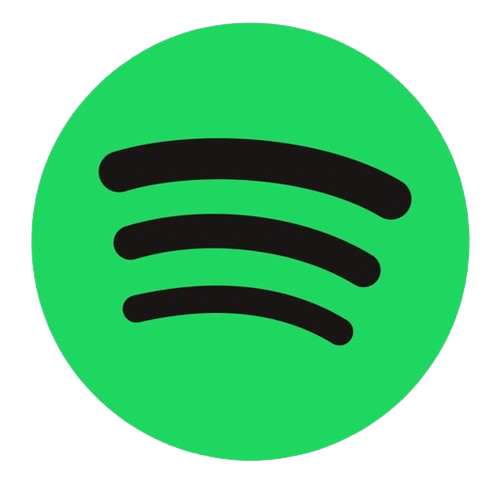
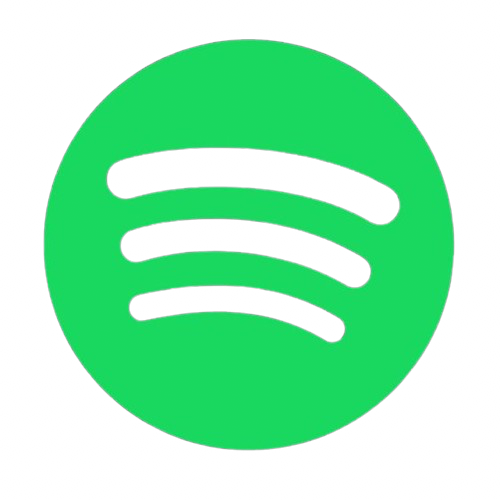
feat(Mobile): Connect discord provider in the app (#198)
* feat(api_endpoints): add routes auth/callback and autorization

* feat(api_auth_Discord): create Class ApiDiscord with create method for authenticateWithDiscord

* feat(show_oauth2_services_page): add connect discord and refactor widget OAuth2 Connect with display scrollview and reloadProfileData after

* refactor(images): add images for discord and spotify

---------

Changed region(s): [[0.06, 0.03, 0.96, 0.93], [0.18, 0.27, 0.84, 0.6], [0.24, 0.57, 0.72, 0.69]]

diff --git a/area_front_app/lib/pages/home/show_oauth2_services_page.dart b/area_front_app/lib/pages/home/show_oauth2_services_page.dart
@@ -8,6 +8,7 @@ import 'package:area_front_app/pages/copyarea/copy_area_page.dart';
 import 'package:area_front_app/api/routes/auth/oauth2/api_auth_google.dart';
 import 'package:area_front_app/api/routes/auth/oauth2/api_auth_spotify.dart';
 import 'package:area_front_app/api/routes/auth/oauth2/api_auth_msteams.dart';
+import 'package:area_front_app/api/routes/auth/oauth2/api_auth_discord.dart';
 
 class OAuth2ServicesPage extends StatefulWidget {
   const OAuth2ServicesPage({super.key});
@@ -41,6 +42,7 @@ class _OAuth2ServicesPageState extends State<OAuth2ServicesPage> {
 
   List myOAuth2Services = [
     ["Github", "lib/images/github.png"],
+    ["Discord", "lib/images/discord.png"],
     ["Google", "lib/images/google.png"],
     ["Spotify", "lib/images/spotify.png"],
     ["MSTeams", "lib/images/msteams.png"],
@@ -59,26 +61,39 @@ class _OAuth2ServicesPageState extends State<OAuth2ServicesPage> {
     }
   }
 
+  Future<void> _reloadProfileData() async {
+    userProfile.serviceStatus = await ApiUserServices.isServiceConnected();
+    if (mounted) {
+      setState(() {});
+    }
+  }
+
   void powerSwitchChanged(bool value, int index) {
     setState(() {
       userProfile.serviceStatus[myOAuth2Services[index][0]] = value;
     });
+    _reloadProfileData();
   }
 
-  Expanded buildOAuth2ServicesGrid() {
-    return Expanded(
-      child: GridView.builder(
-        itemCount: myOAuth2Services.length,
-        physics: const NeverScrollableScrollPhysics(),
-        padding: const EdgeInsets.symmetric(horizontal: 25),
-        gridDelegate: const SliverGridDelegateWithFixedCrossAxisCount(
-          crossAxisCount: 2,
-          childAspectRatio: 1 / 1.1,
-        ),
-        itemBuilder: (context, index) {
-          return buildOAuth2ServiceBox(index);
-        },
-      ),
+  ListView buildOAuth2ServicesList() {
+    return ListView.builder(
+      itemCount: (myOAuth2Services.length / 2).ceil(),
+      padding: const EdgeInsets.symmetric(horizontal: 25),
+      itemBuilder: (context, index) {
+        int startIndex = index * 2;
+        int endIndex = startIndex + 2;
+        if (endIndex > myOAuth2Services.length) {
+          endIndex = myOAuth2Services.length;
+        }
+        return Row(
+          mainAxisAlignment: MainAxisAlignment.spaceAround,
+          children: List.generate(endIndex - startIndex, (i) {
+            return Expanded(
+              child: buildOAuth2ServiceBox(startIndex + i),
+            );
+          }),
+        );
+      },
     );
   }
 
@@ -100,24 +115,30 @@ class _OAuth2ServicesPageState extends State<OAuth2ServicesPage> {
               ),
               actions: [
                 TextButton(
-                  onPressed: () {
+                  onPressed: () async {
                     Navigator.of(context).pop();
-                    if (myOAuth2Services[index][0] == "Github") {
-                      ApiGitHub().authenticateWithGitHub();
-                      powerSwitchChanged(true, index);
+                    final serviceName = myOAuth2Services[index][0];
+
+                    switch (serviceName) {
+                      case "Github":
+                        await ApiGitHub().authenticateWithGitHub();
+                        break;
+                      case "Google":
+                        await ApiGoogle().authenticateWithGoogle();
+                        break;
+                      case "Spotify":
+                        await ApiSpotify().authenticateWithSpotify();
+                        break;
+                      case "MSTeams":
+                        await ApiMSTeams().authenticateWithMSTeams();
+                        break;
+                      case "Discord":
+                        await ApiDiscord().authenticateWithDiscord();
+                        break;
+                      default:
+                        break;
                     }
-                    if (myOAuth2Services[index][0] == "Google") {
-                      ApiGoogle().authenticateWithGoogle();
-                      powerSwitchChanged(true, index);
-                    }
-                    if (myOAuth2Services[index][0] == "Spotify") {
-                      ApiSpotify().authenticateWithSpotify();
-                      powerSwitchChanged(true, index);
-                    }
-                    if (myOAuth2Services[index][0] == "MSTeams") {
-                      ApiMSTeams().authenticateWithMSTeams();
-                      powerSwitchChanged(true, index);
-                    }
+                    powerSwitchChanged(true, index);
                   },
                   child: const Text('Connect'),
                 ),
@@ -265,7 +286,8 @@ class _OAuth2ServicesPageState extends State<OAuth2ServicesPage> {
                 color: Color.fromRGBO(66, 66, 66, 1),
               ),
             ),
-            if (isShowOAuth2Services) buildOAuth2ServicesGrid(),
+            if (isShowOAuth2Services)
+              Expanded(child: buildOAuth2ServicesList()),
             Padding(
               padding: EdgeInsets.symmetric(horizontal: horizontalPadding),
               child: Row(

diff --git a/area_front_app/lib/api/routes/auth/oauth2/api_auth_discord.dart b/area_front_app/lib/api/routes/auth/oauth2/api_auth_discord.dart
@@ -1,0 +1,25 @@
+import 'package:url_launcher/url_launcher.dart';
+import 'package:area_front_app/api/api_endpoints.dart';
+import 'package:flutter_dotenv/flutter_dotenv.dart';
+
+class ApiDiscord {
+  static String clientID = dotenv.env['DISCORD_CLIENT_ID'] ?? '';
+  static String clientSecret = dotenv.env['DISCORD_CLIENT_SECRET'] ?? '';
+  static String clientSCOPE = dotenv.env['DISCORD_CLIENT_SCOPE'] ?? '';
+
+  Future<void> authenticateWithDiscord() async {
+    if (clientID.isEmpty || clientSecret.isEmpty) {
+      throw 'Missing Discord client ID or client secret';
+    }
+
+    final authCallbackURL =
+        Uri.encodeFull(ApiRoutes.baseUrl + ApiRoutes.authDiscord);
+
+    final String link = '${ApiRoutes.authorizeDiscord}client_id=$clientID&redirect_uri=$authCallbackURL&response_type=code&scope=$clientSCOPE';
+    Uri uri = Uri.parse(link);
+    
+    if (!await launchUrl(uri)) {
+      throw 'Could not launch $link';
+    }
+  }
+}

diff --git a/area_front_app/lib/api/api_endpoints.dart b/area_front_app/lib/api/api_endpoints.dart
@@ -25,4 +25,6 @@ class ApiRoutes {
       'https://accounts.spotify.com/authorize?';
   static const String authMSTeams = 'auth/teams/callback';
   static const String authorizeMSTeams = 'https://login.microsoftonline.com/common/oauth2/v2.0/authorize?';
+  static const String authDiscord = 'auth/discord/callback';
+  static const String authorizeDiscord = 'https://discord.com/api/oauth2/authorize?';
 }
